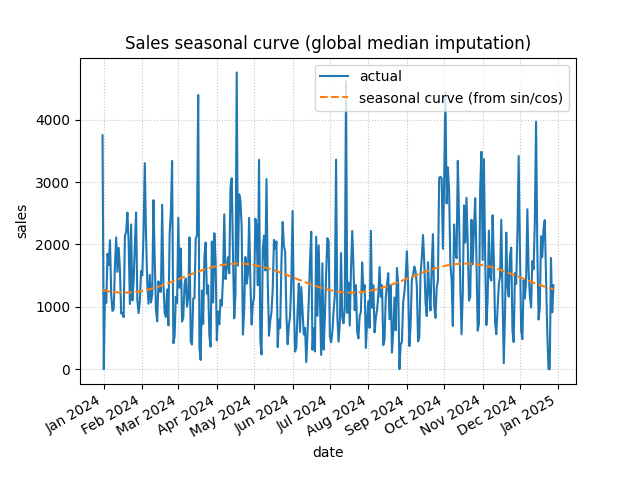
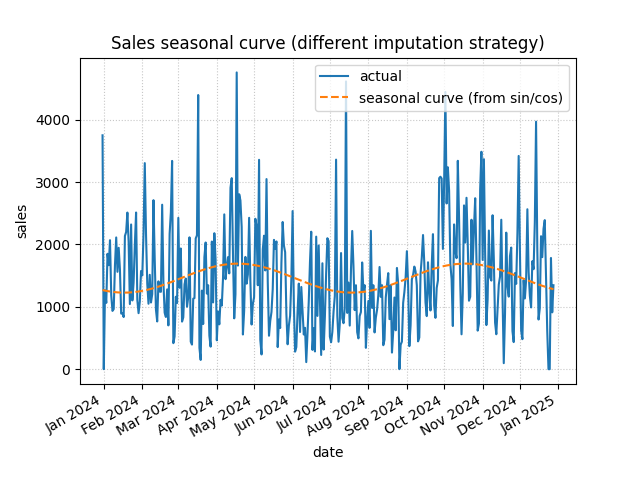
feat: code cleanup

Changed region(s): [[0.1562, 0.0625, 0.8438, 0.125]]

diff --git a/src/analysis/impute_analysis.py b/src/analysis/impute_analysis.py
@@ -1,6 +1,6 @@
 import pandas as pd
 from src.analysis.performance_analysis import metrics_plots, absolute_error_plot, ranked_summary, ranked_table
-from src.analysis.eda import seasonal_curve
+from src.analysis.eda import seasonal_curve, acf_plots
 '''
 Determines whether imputing missing sales values improves forecast accuracy and stability compared to dropping missing observations. 
 Reports difference in MAE/RMSE/MASE across rolling-origin folds between imputation and row removal.
@@ -13,12 +13,15 @@ def impute_analysis_plots(impute_df: pd.DataFrame,
     '''
     Centrlalise plotting of metrics plots for analysis of imputation strategy
     '''
-    metrics_plots(metrics_list, models, "tuned", "imputation_analysis_figures")
+    metrics_plots(metrics_list, models, "imputation", "imputation_analysis_figures")
 
-    absolute_error_plot(oos_list, models, "tuned", "imputation_analysis_figures")
+    absolute_error_plot(oos_list, models, "imputation", "imputation_analysis_figures")
 
     tuned_ranked = ranked_summary(oos_list, models)
 
-    ranked_table(tuned_ranked, "tuned", "imputation_analysis_figures")
+    ranked_table(tuned_ranked, "imputation", "imputation_analysis_figures")
 
-    seasonal_curve(impute_df, "sales", 2, "Sales seasonal curve (global median imputation)", "fourier_seasonal_imputation", "imputation_analysis_figures")
+    seasonal_curve(impute_df, "sales", 2, "Sales seasonal curve (different imputation strategy)", "fourier_seasonal_imputation", "imputation_analysis_figures")
+
+    acf_plots(impute_df, "sales", 1, "acf_sales_imputation", "1st Order Non-Seasonal Differencing (different imputation strategy)", "imputation_analysis_figures")
+    acf_plots(impute_df, "sales", 7, "acf_sales_seasonal_imputation", "Seasonal Differencing with Period 7 (different imputation strategy)", "imputation_analysis_figures")

diff --git a/src/analysis/eda.py b/src/analysis/eda.py
@@ -187,8 +187,9 @@ def fourier_unit_circle(df: pd.DataFrame,
 def acf_plots(df: pd.DataFrame, 
               col: str, 
               diff: int,
-              name: str, 
-              title: str) -> None:
+              file_name: str, 
+              title: str,
+              folder: str) -> None:
     '''
     Generates autocorrelation plots
     '''
@@ -207,7 +208,7 @@ def acf_plots(df: pd.DataFrame,
     axes[1].set_title(f"ACF {title}")
     axes[2].set_title(f"PACF {title}")
     
-    save_figure(fig, name, "eda_figures")
+    save_figure(fig, file_name, folder)
 
 
 def decomposition_plot(df: pd.DataFrame, name: str) -> None:
@@ -239,8 +240,8 @@ def plot_all(df: pd.DataFrame) -> tuple[pd.DataFrame, pd.DataFrame]:
     fourier_unit_circle(df, "doy_cos", "doy_sin", "Cyclical day-of-year scatter plot", "fourier_unit_daily")
 
     # ACF plots seasonal/non-seasonal
-    acf_plots(df, "sales", 1, "acf_sales", "1st Order Non-Seasonal Differencing")
-    acf_plots(df, "sales", 7, "acf_sales_seasonal", "Seasonal Differencing with Period 7")
+    acf_plots(df, "sales", 1, "acf_sales", "1st Order Non-Seasonal Differencing", "eda_figures")
+    acf_plots(df, "sales", 7, "acf_sales_seasonal", "Seasonal Differencing with Period 7", "eda_figures")
 
     # decomposition plot
     decomposition_plot(df, "seasonal_decompose")
